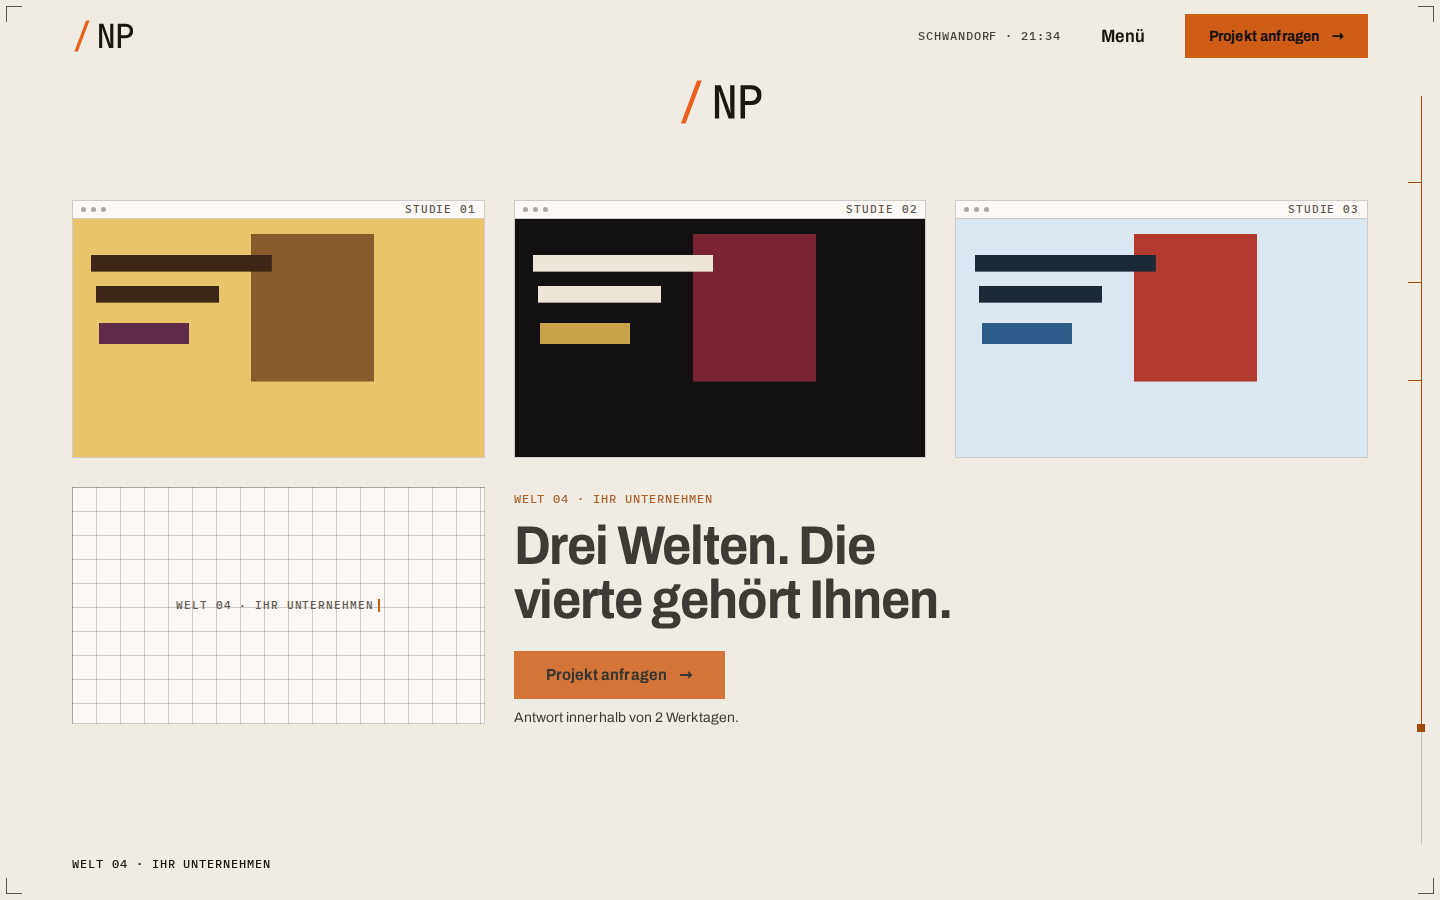
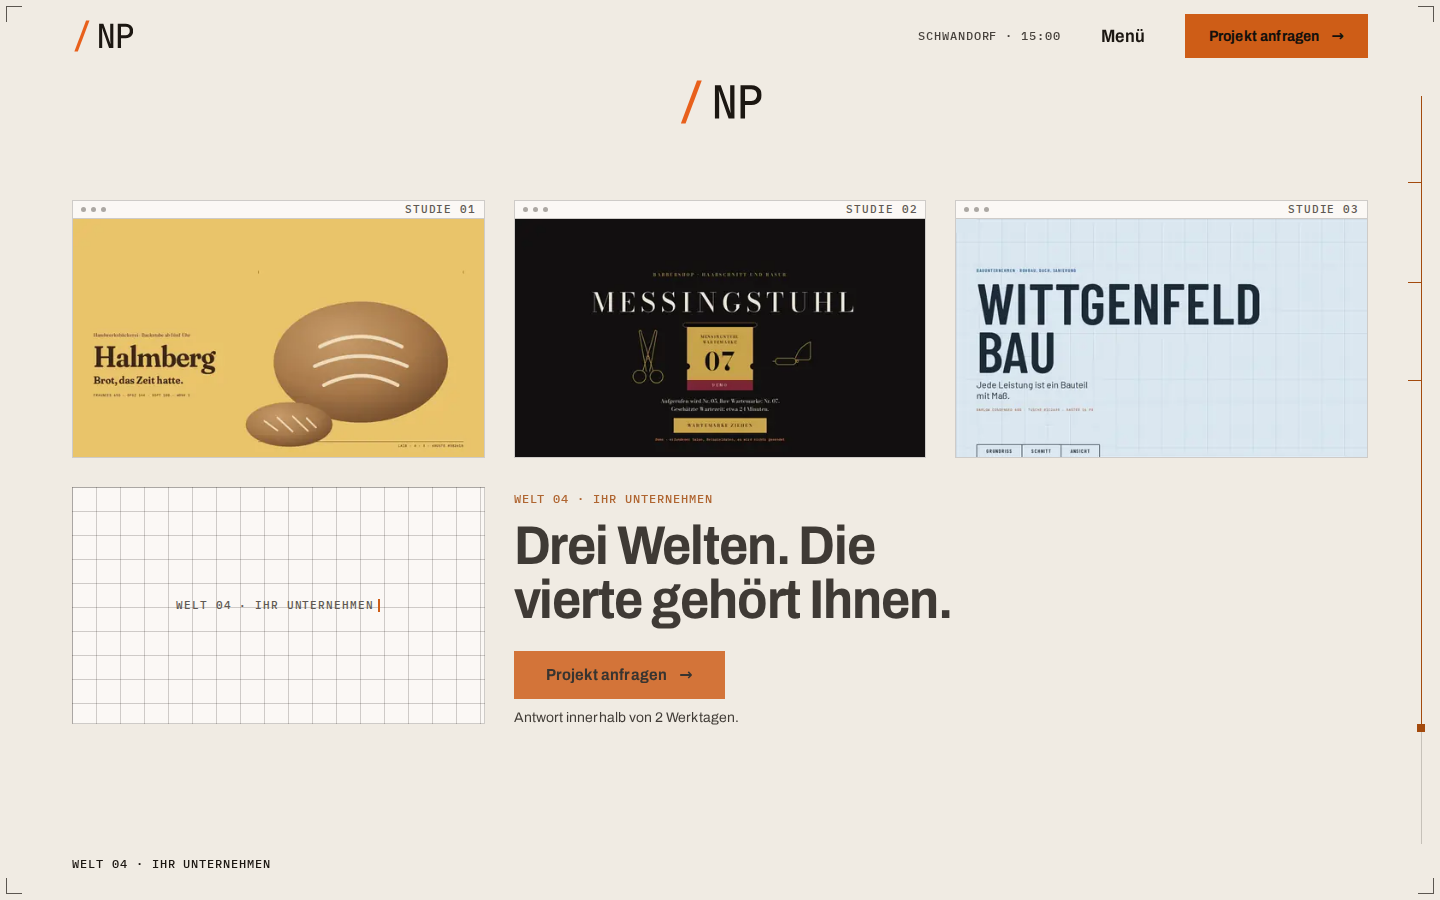
Werkplan-Zellen mit echten Vorschaubildern, Social-Vorschaubilder, axe-Prüfung, H1 bleibt im Accessibility-Tree
Vorschaubilder entstehen aus den gebauten Seiten (scripts/render-previews.cjs), nicht von Hand.
Werkplan, Finale und Wachstumsebene t00 nutzen sie; Branchenseiten zeigen das Konzeptbild.
og:image und twitter:card je Seite. tools/axe-check.cjs prüft Startseite, Welten und Unterseiten.

Claude-Session: https://claude.ai/code/session_012oGQkUeGguwKayS35AC7da

Changed region(s): [[0.0625, 0.2489, 0.3125, 0.4978], [0.375, 0.2489, 0.5938, 0.4978], [0.6562, 0.2489, 0.875, 0.4667]]

diff --git a/src/styles/opening.css b/src/styles/opening.css
@@ -120,6 +120,10 @@
 @keyframes frag-in { from { opacity: 0; transform: translateY(6px); } }
 @keyframes mask-rise { from { transform: translateY(105%); } }
 
+/* Der Hero-Text blendet beim Scrollen über Deckkraft aus (autoAlpha setzt auf dem Container visibility:hidden). Die Texte darin sind
+   nicht bedienbar und bleiben für Hilfstechnik im Baum, damit die H1 und der Einleitungstext nach dem Scrollen nicht verschwinden (WCAG 1.3.1). */
+.hero-copy * { visibility: visible; pointer-events: none; }
+
 /* ===== Werkplan ===== */
 .werkplan { position: relative; padding: var(--block) var(--gutter); background: var(--leinen); }
 .wp-grid { max-width: var(--max); margin: 0 auto; display: grid; gap: var(--col-gap); grid-template-columns: repeat(2, minmax(0, 1fr)); }
@@ -142,6 +146,7 @@
 .wp-bar-label { display: none; }
 @media (min-width: 600px) { .wp-bar-label { display: block; } .wp-caption { font-size: var(--fs-mono); margin-top: var(--s3); } }
 .wp-link:hover .wp-bar, .wp-link:focus-visible .wp-bar { background: var(--hover-toenung); border-color: var(--np-orange); }
+.wp-still img { position: absolute; inset: 0; width: 100%; height: 100%; object-fit: cover; object-position: 50% 0; display: block; }
 .wp-link:hover .wp-still, .wp-link:focus-visible .wp-still { transform: scale(1.03); }
 .wp-link:focus-visible { outline-offset: 6px; }
 
@@ -196,6 +201,7 @@ html[data-mode='desktop'] .grow, html[data-mode='mobile'] .grow { display: block
     linear-gradient(var(--accent2) 0 0) 62% 16% / 30% 62% no-repeat,
     var(--ground);
 }
+.grow-art img { position: absolute; inset: 0; width: 100%; height: 100%; object-fit: cover; object-position: 50% 0; display: block; }
 /* Ruhig und ohne JavaScript: der orange Faden trennt Werkplan und Welt 01 */
 .opening + .world { border-top: 1.5px solid var(--np-orange); }
 html[data-mode='desktop'] .opening + .world, html[data-mode='mobile'] .opening + .world { border-top: 0; }

diff --git a/src/motion/opening.js b/src/motion/opening.js
@@ -6,6 +6,9 @@
 import { gsap, ScrollTrigger, $, $$, mode } from './base.js';
 import { setSection } from './rahmen.js';
 
+/** Mobil: oberer Versatz des Zellenausschnitts in Viewport-px, gleicher Wert wie in scripts/render-previews.cjs */
+const FOCUS_M = 120;
+
 export function initOpening() {
   const sec = $('#opening');
   const stage = $('[data-stage]');
@@ -51,7 +54,10 @@ export function initOpening() {
     const barH = $('.wp-bar', frameEl).getBoundingClientRect().height;
     const top = fr.top - sr.top + barH;
     const clip = `inset(${top}px ${sr.right - fr.right}px ${sr.bottom - fr.bottom}px ${fr.left - sr.left}px)`;
-    const art = { x: fr.left - sr.left, y: top, s: fr.width / sr.width };
+    // Mobil zeigt die Zelle den Streifen ab FOCUS_M (scripts/render-previews.cjs): die Ebene startet entsprechend nach oben versetzt
+    const focus = mode === 'mobile' ? FOCUS_M : 0;
+    const s = fr.width / sr.width;
+    const art = { x: fr.left - sr.left, y: top - focus * s, s };
     return { s0, x0: target.x - cx, y0: target.y - cy, ox: cx - (gr.left - sr.left), oy: cy - (gr.top - sr.top), clip, art };
   };
 

diff --git a/src/styles/branche.css b/src/styles/branche.css
@@ -25,6 +25,8 @@
 /* Bild */
 .bs-visual { padding: var(--s9) 0 0; }
 .bs-frame { aspect-ratio: 1659 / 1186; max-height: 70svh; background: var(--kalk); border: 1px solid var(--haarlinie); display: grid; place-items: center; text-align: center; padding: var(--s6); }
+.bs-shot { aspect-ratio: 1200 / 750; max-height: none; padding: 0; display: block; overflow: hidden; }
+.bs-shot img { display: block; width: 100%; height: auto; }
 .bs-frame .mono { color: var(--tinte); text-transform: none; letter-spacing: .02em; max-width: 44ch; border: 1px dashed currentColor; padding: var(--s3) var(--s4); }
 .bs-caption { display: flex; flex-wrap: wrap; justify-content: space-between; gap: var(--s2) var(--s5); margin-top: var(--s3); color: var(--stein); font-size: var(--fs-small); }
 

diff --git a/docs/stand-uebergabe.md b/docs/stand-uebergabe.md
@@ -60,7 +60,7 @@ Alle zehn Weltpaletten sind in `src/config/journey.js` ersetzt (Welt 01 Weizengo
 - `.htaccess` und der SMTP-Versand über IONOS sind nicht auf dem echten Server getestet (SMTP nur gegen lokalen Testserver mit STARTTLS und Anmeldung).
 - Rechtstexte sind nicht anwaltlich geprüft. Die Datenschutzerklärung enthält einen offenen Platzhalter (Logfile-Dauer) und Annahmen über Hostinger, die laut Niklas’ Angaben formuliert sind.
 - Bodoni-Haarlinien (Welt 02) sind auf 1×-Bildschirmen bei kleinen Versalien dünn; große Schrift ist auf optische Größe 20 festgelegt.
-- Hintergründe der Zellen im Werkplan sind abstrakte Standbilder, keine echten Screenshots.
+- Die Zellen im Werkplan zeigen echte Bilder der gebauten Welten (`scripts/render-previews.cjs`, WebP, je 3–7 KB). Sie müssen nach sichtbaren Änderungen an einer Welt neu erzeugt werden; AVIF fehlt, weil ImageMagick hier nur lesen kann.
 - Die Blueprint-Zahl „zehn Welten“ ist im Text dynamisch (aktuell „Drei Welten. Die vierte gehört Ihnen.“); die letzte Welt heißt im Kontakt „Welt 04“ und wird mit jeder neuen Welt automatisch weitergezählt.
 
 ## 8. Wichtige Dateien
@@ -68,7 +68,7 @@ Alle zehn Weltpaletten sind in `src/config/journey.js` ersetzt (Welt 01 Weizengo
 - `docs/rechtspruefung.md`: Prüfliste für den Rechtsprüfer.
 - `src/config/journey.js` (Reise, Paletten, Längen, Übergangsvarianten), `site.js` (Kontaktdaten, Preise, Schritte, FAQ).
 - `src/motion/*.js` (Szenen), `src/worlds/NN-name/` (Welt-Module: `World.astro`, `world.css`, `motion.js`, `data.js`).
-- `tools/check-site.cjs` (Datenschutz- und Qualitätsabnahme).
+- `tools/check-site.cjs` (Datenschutz- und Qualitätsabnahme), `tools/axe-check.cjs` (axe, WCAG 2.2 AA), `scripts/render-previews.cjs` (Vorschau- und Social-Bilder).
 
 ## 9. Regeln für die Weiterarbeit
 - Keine Drittanbieter-Anfragen, keine Cookies, kein Browser-Speicher ohne Handlung; vor jeder technischen Änderung die Datenschutzerklärung prüfen (Pflegeregel der Blueprint).

diff --git a/README.md b/README.md
@@ -1,7 +1,7 @@
 # NP Webdesign · Relaunch „Die Journey“
 
 Statische Astro-Seite (Blueprint Abschnitt N/T). Kein UI-Framework, kein WebGL, kein Lottie, keine Fremdserver.
-Die laufende Seite im Repo-Wurzelverzeichnis bleibt bis zum Umzug unberührt.
+Der Quellcode liegt im Wurzelverzeichnis; die fertige Seite entsteht beim Bauen (`dist/`, im Branch `deploy`).
 
 ## Befehle
 
@@ -12,7 +12,13 @@ npm run build      # erzeugt dist/ (nur Dateien, nichts Inline)
 npm run preview    # dist/ lokal ansehen
 
 # Datenschutz- und Qualitäts-Abnahme (Blueprint Q2 / T.4), braucht Playwright mit Chromium
-NODE_PATH=$(npm root -g) node ../tools/check-site.cjs dist
+NODE_PATH=$(npm root -g) node tools/check-site.cjs dist
+# Barrierefreiheit (axe-core, WCAG 2.2 AA) an Startseite, jeder Welt und allen Unterseiten
+AXE=/pfad/zu/axe.min.js NODE_PATH=$(npm root -g) node tools/axe-check.cjs
+
+# Vorschaubilder (Werkplan, Finale, Branchenseiten, Social 1200×630) aus der gebauten Seite rendern.
+# Nach jeder sichtbaren Änderung an einer Welt neu ausführen; ImageMagick und Playwright nötig. Die Bilder liegen im Repo.
+npm run build && NODE_PATH=$(npm root -g) node scripts/render-previews.cjs
 ```
 
 ## Aufbau
